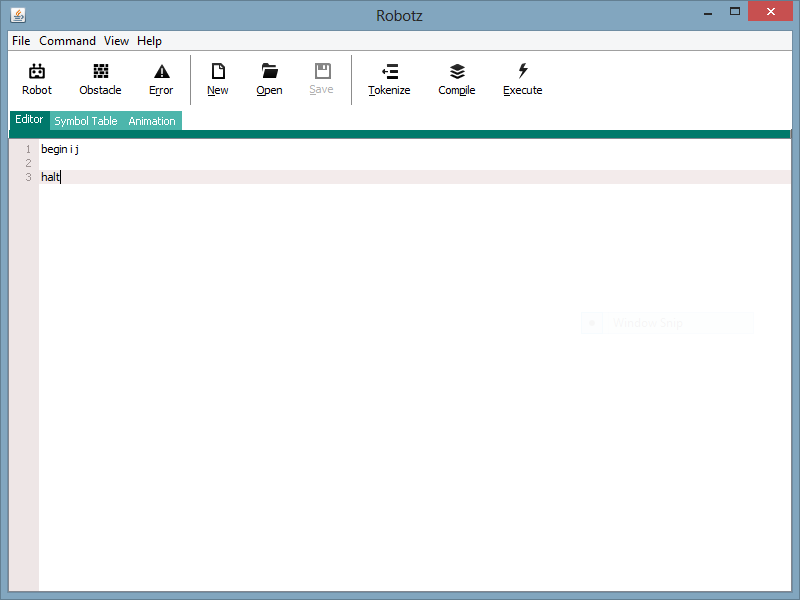
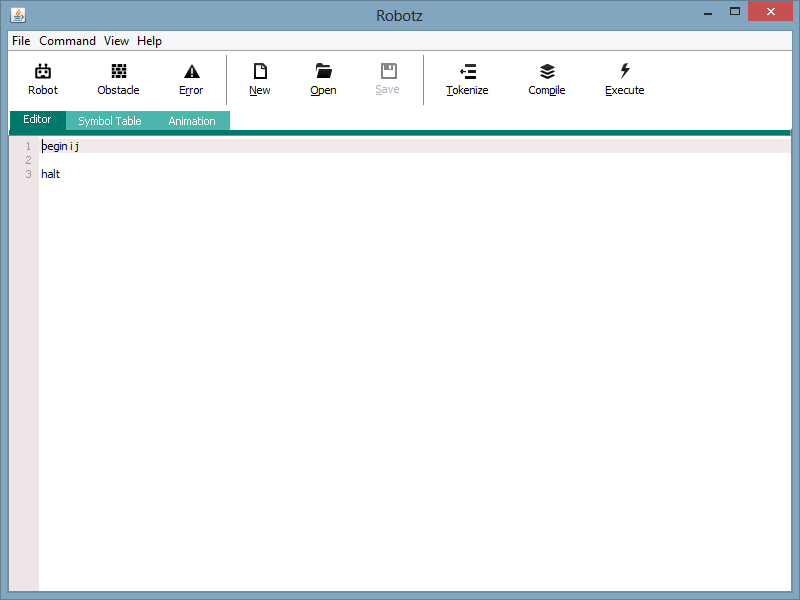
Finally fixes for Windows's main UI problems
[Now almost identical to the OS X counterpart]

diff --git a/src/com/robotz/view/FlatTabbedPaneUI.java b/src/com/robotz/view/FlatTabbedPaneUI.java
@@ -19,6 +19,20 @@ public class FlatTabbedPaneUI extends BasicTabbedPaneUI {
 		super();
 	}
 
+	
+	
+
+	@Override
+	protected int calculateTabWidth(int tabPlacement, int tabIndex,
+			FontMetrics metrics) {
+		if (RobotMain.getOSName().contains("mac"))
+			return super.calculateTabWidth(tabPlacement, tabIndex, metrics);
+		else
+		{
+			return super.calculateTabWidth(tabPlacement, tabIndex, metrics) + 16;
+		}
+	}
+
 	@Override
 	protected void paintTabBackground(Graphics g, int tabPlacement,
 			int tabIndex, int x, int y, int w, int h, boolean isSelected) {
@@ -33,7 +47,10 @@ public class FlatTabbedPaneUI extends BasicTabbedPaneUI {
 
 	@Override
 	protected Insets getContentBorderInsets(int tabPlacement) {
-		return new Insets(7, 0, 0, 0);
+		if (RobotMain.getOSName().contains("mac"))
+			return new Insets(7, 0, 0, 0);
+		else
+			return new Insets(4, 0, 0, 0);
 	}
 
 	@Override

diff --git a/src/com/robotz/view/EditorJFrame.java b/src/com/robotz/view/EditorJFrame.java
@@ -87,7 +87,7 @@ public class EditorJFrame extends JFrame {
 	
 	private void osSpecific() {
 		if (RobotMain.getOSName().contains("win"))
-			toolBarButtonInsets = new Insets(8, 12, 8, 12);
+			toolBarButtonInsets = new Insets(8, 18, 8, 18);
 		else if (RobotMain.getOSName().contains("mac"))
 			toolBarButtonInsets = new Insets(6, 0, 0, 0);
 	}
